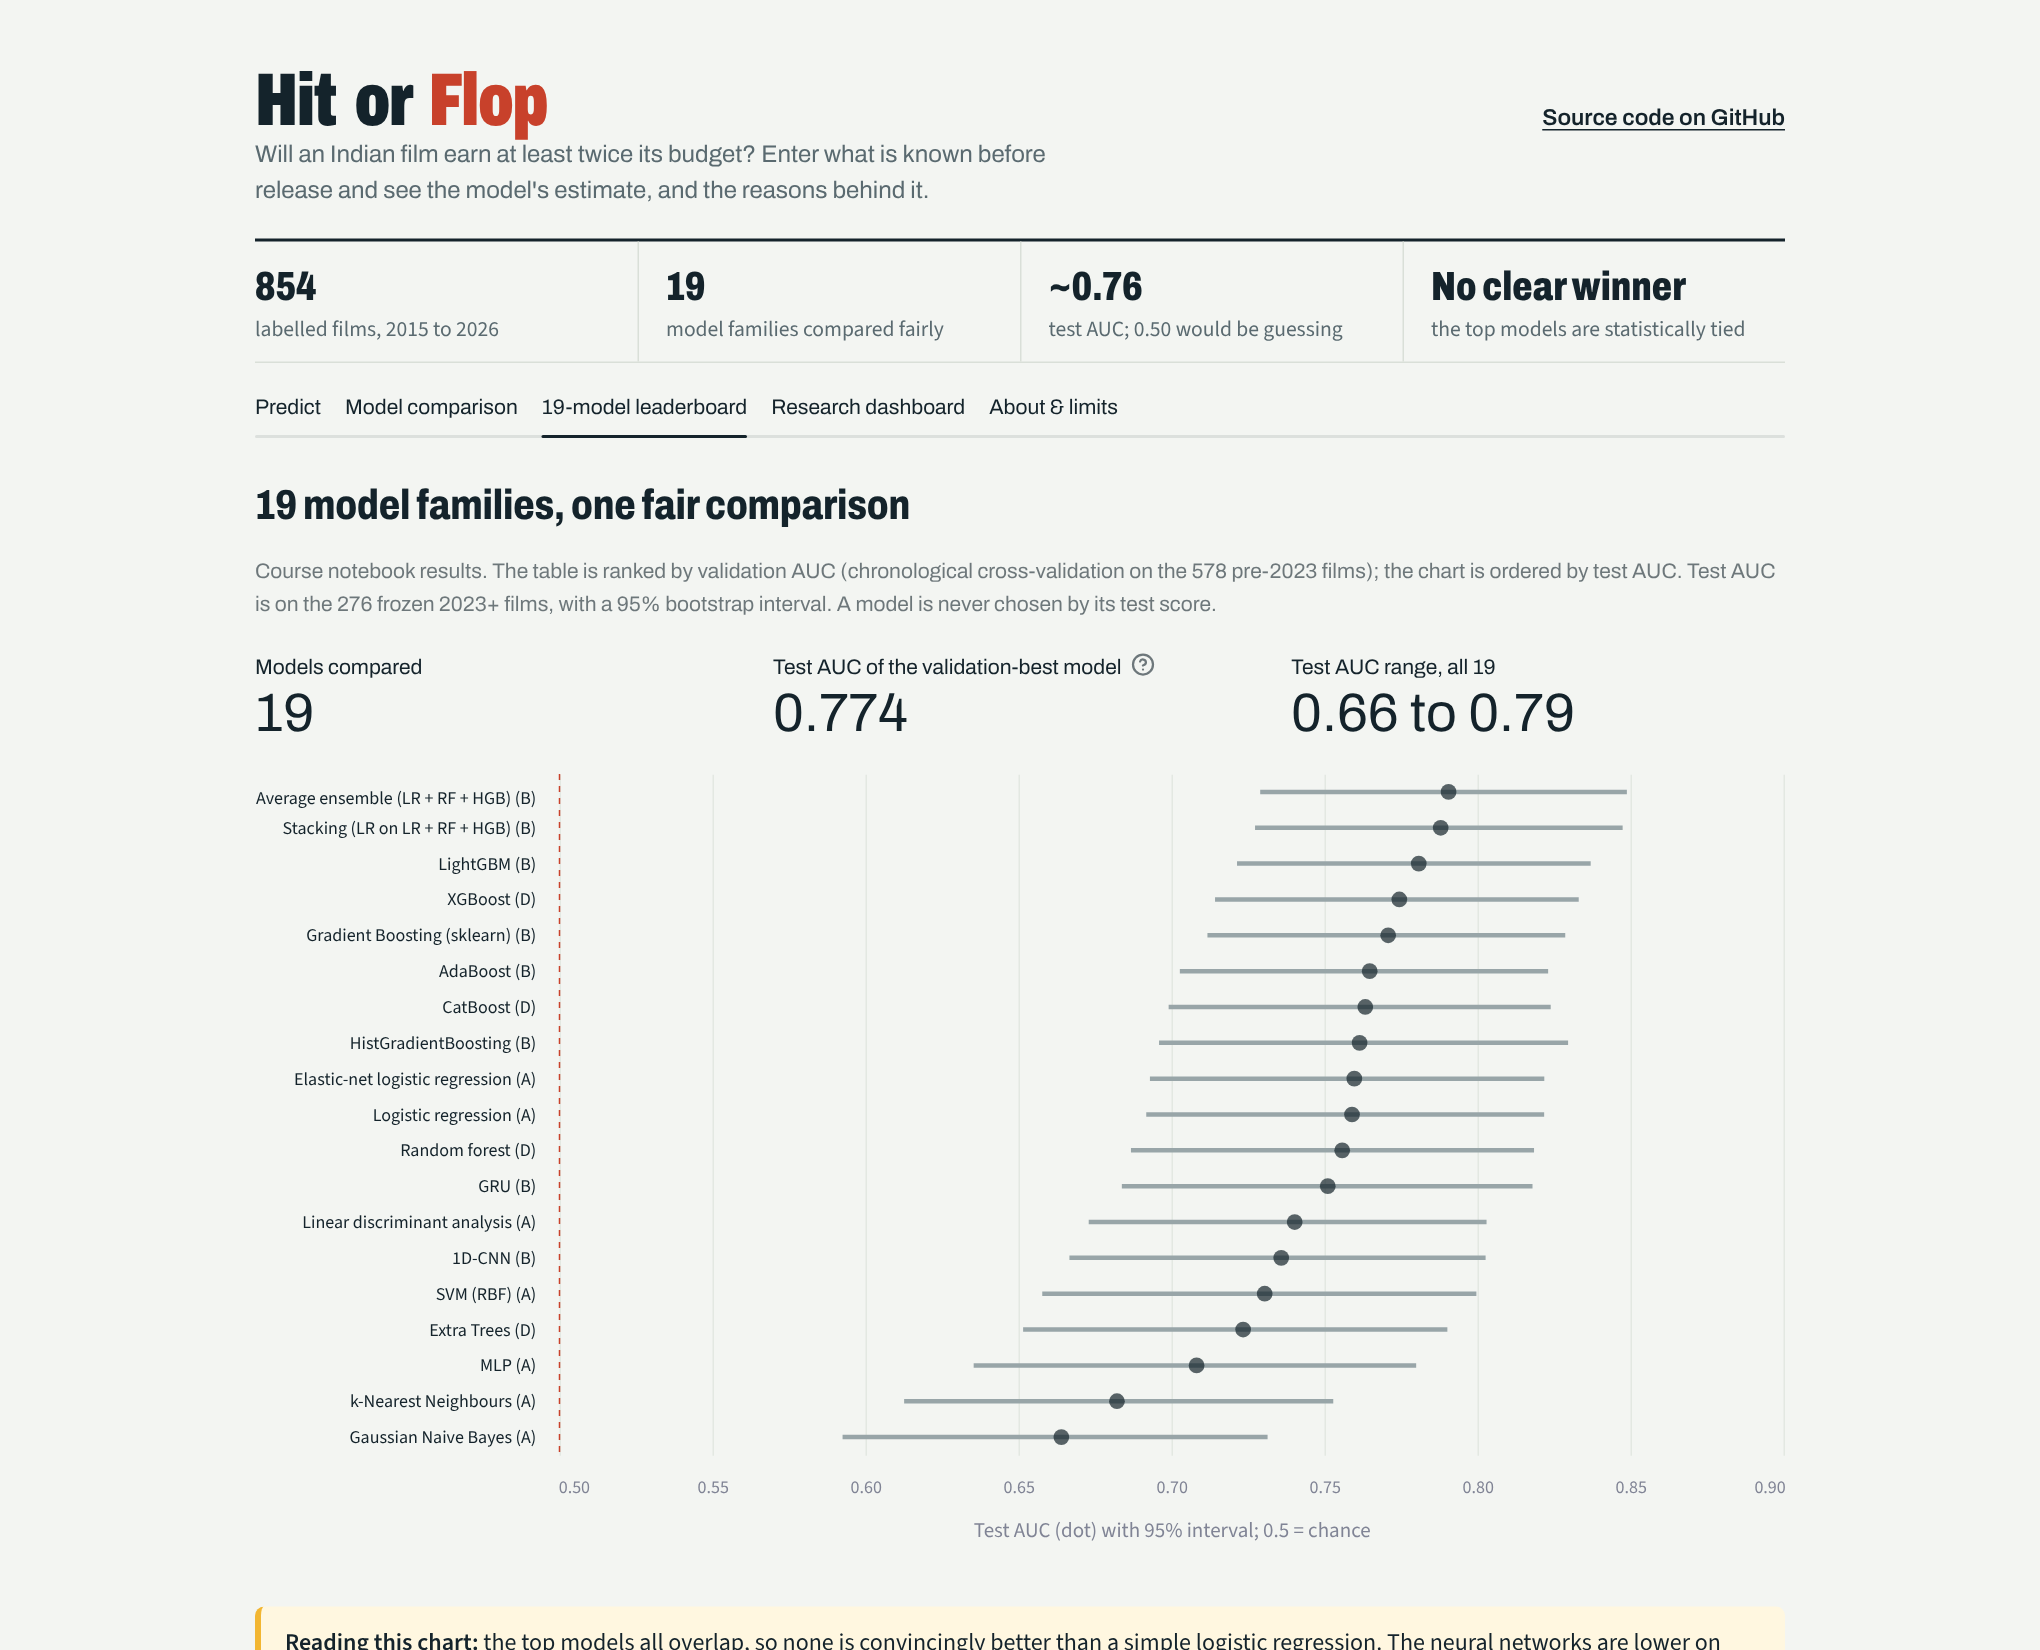
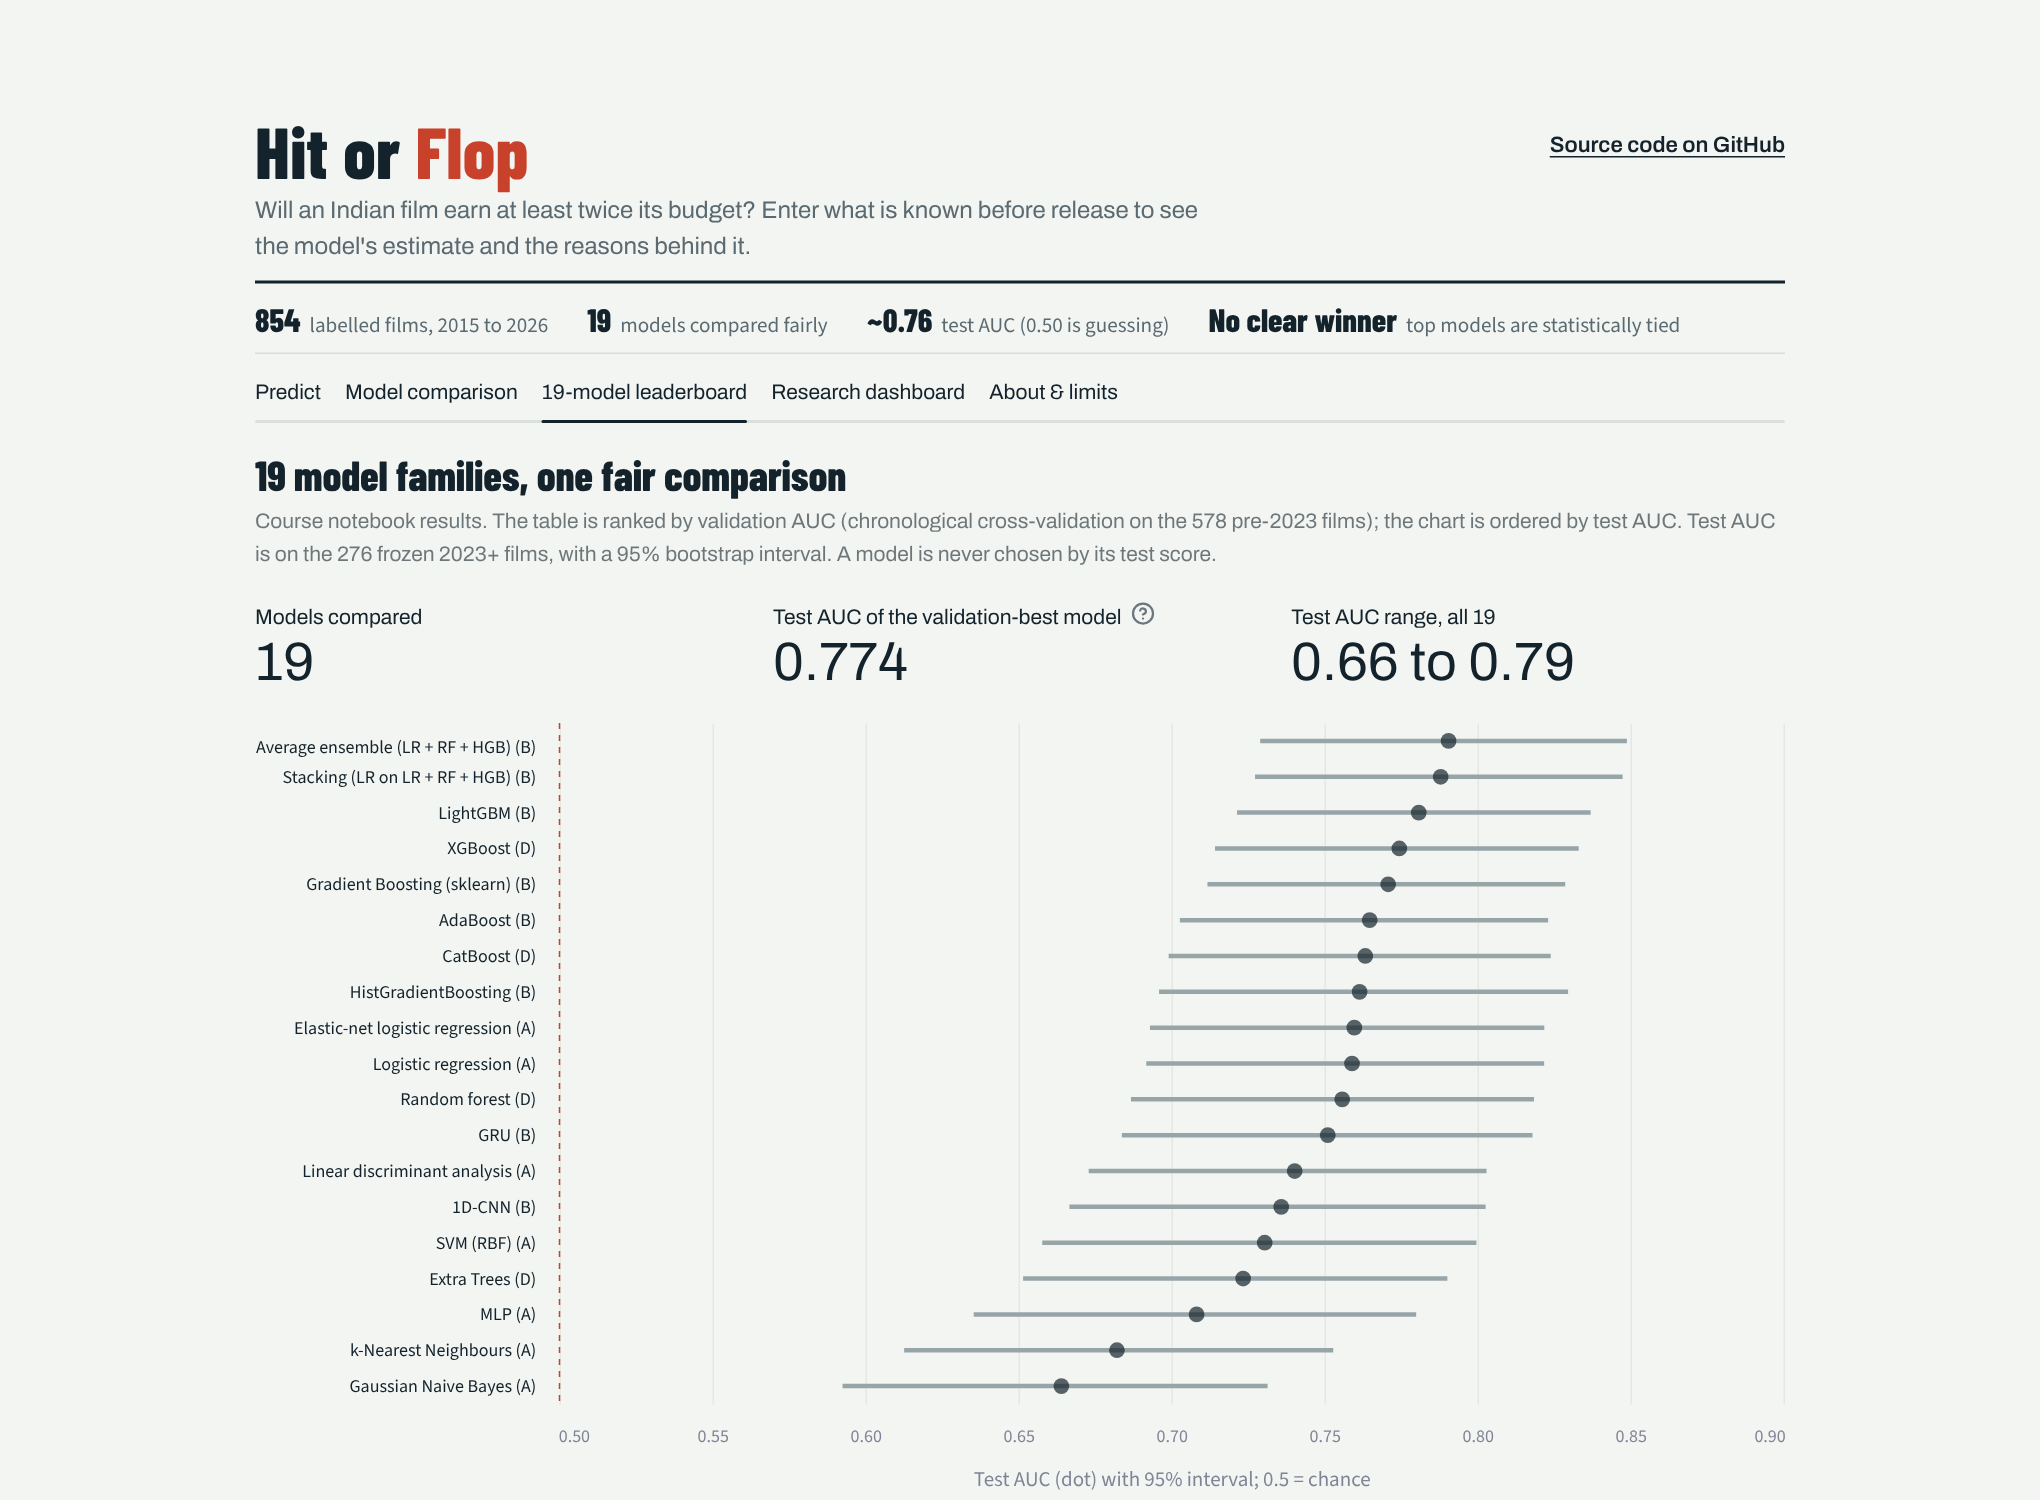
Compact layout and static condensed headline font

diff --git a/app/streamlit_app.py b/app/streamlit_app.py
@@ -126,8 +126,7 @@ def ticket_html(title, meta, p, thr, label, model_label):
         f"<div class='thr' style='left:{thr * 100:.1f}%'><span>Hit line {thr * 100:.0f}%</span></div></div>"
         f"</div>"
         f"<div class='tk-perf'></div>"
-        f"<div class='tk-foot'>The model calls a Hit when the chance is at or above the Hit line. "
-        f"The line was set on past films, not chosen to flatter this one.</div>"
+        f"<div class='tk-foot'>A Hit is called when the chance reaches the Hit line. The line was set on past films, not to flatter this one.</div>"
         f"</div>")
 
 
@@ -135,80 +134,78 @@ def ticket_html(title, meta, p, thr, label, model_label):
 REPO_URL = "https://github.com/tonymadhuri2088-cmd/movie-hit-flop"
 st.markdown("""
 <style>
-@font-face {font-family: "Archivo VF"; src: url("/app/static/archivo-wdth.woff2") format("woff2");
-            font-weight: 100 900; font-stretch: 62% 125%; font-display: swap;}
+@font-face {font-family: "Archivo VF"; src: url("/app/static/archivo-wdth.woff2") format("woff2"); font-weight: 100 900; font-display: swap;}
+@font-face {font-family: "Barlow Cond"; src: url("/app/static/barlow-condensed-800.woff2") format("woff2"); font-weight: 800; font-display: swap;}
+@font-face {font-family: "Barlow Cond"; src: url("/app/static/barlow-condensed-700.woff2") format("woff2"); font-weight: 700; font-display: swap;}
 :root {--paper:#f3f5f2; --panel:#ffffff; --line:#d9dfd8; --ink:#14232b; --muted:#5a6a70; --gold:#f2b632;
-       --hit:#0f7b62; --flop:#c8412b; --hit-lit:#4fd1a5; --flop-lit:#ff7a59;}
+       --hit:#0f7b62; --flop:#c8412b; --hit-lit:#4fd1a5; --flop-lit:#ff7a59;
+       --head:"Barlow Cond","Arial Narrow","Roboto Condensed",sans-serif;}
 .stApp, .stApp p, .stApp label, .stApp li, .stApp td, .stApp th, .stApp button, .stApp input, .stApp textarea,
-.stApp h1, .stApp h2, .stApp h3, .stApp h4, .stApp a, .stApp caption {font-family: "Archivo VF", "Segoe UI", system-ui, sans-serif;}
+.stApp a {font-family: "Archivo VF", "Segoe UI", system-ui, sans-serif;}
+.stApp h1, .stApp h2, .stApp h3, .stApp h4 {font-family: var(--head);}
 .stApp [data-testid="stIconMaterial"], .stApp .material-symbols-rounded {font-family: "Material Symbols Rounded" !important;}
-.block-container {padding-top: 1.6rem; max-width: 1180px;}
-h2, h3 {font-variation-settings: "wdth" 80; font-weight: 800 !important; letter-spacing: -.01em;}
+.block-container {padding-top: 3.4rem !important; padding-bottom: 2rem !important; max-width: 1180px;}
+h2, h3 {font-weight: 800 !important; font-size: 1.75rem !important; line-height: 1.15 !important; letter-spacing: .005em; padding: .1rem 0 .3rem 0 !important; font-synthesis: none;}
 
-.top {display:flex; align-items:baseline; justify-content:space-between; gap:16px; flex-wrap:wrap;}
-.logo {font-family:"Archivo VF",sans-serif; font-variation-settings:"wdth" 70; font-weight:900; font-size:3.1rem; line-height:1;
-       color:var(--ink); letter-spacing:-.02em; word-spacing:.14em;}
+.top {display:flex; align-items:flex-start; justify-content:space-between; gap:16px; flex-wrap:wrap;}
+.logo {font-family:var(--head); font-weight:800; font-size:3rem; line-height:1.15; padding-top:.06em; color:var(--ink); letter-spacing:.005em; font-synthesis:none;}
 .logo i {font-style:normal; color:var(--flop);}
-.top a {color:var(--ink); font-weight:600; text-decoration:underline; text-underline-offset:3px; font-size:.95rem;}
-.lede {font-size:1.12rem; color:var(--muted); max-width: 62ch; margin: 14px 0 20px 0; line-height:1.5;}
-.facts {display:flex; flex-wrap:wrap; border-top:2px solid var(--ink); border-bottom:1px solid var(--line); margin-bottom:10px;}
-.facts div {flex:1 1 180px; padding:12px 18px 12px 0; font-size:.9rem; color:var(--muted); line-height:1.35;}
-.facts div + div {padding-left:18px; border-left:1px solid var(--line);}
-.facts b {display:block; font-family:"Archivo VF",sans-serif; font-variation-settings:"wdth" 75; font-weight:850; font-size:1.7rem; color:var(--ink);}
+.top a {color:var(--ink); font-weight:600; text-decoration:underline; text-underline-offset:3px; font-size:.92rem; margin-top:.9rem;}
+.lede {font-size:1.02rem; color:var(--muted); max-width: 70ch; margin: 2px 0 12px 0; line-height:1.45;}
+.facts {display:flex; flex-wrap:wrap; gap:6px 26px; border-top:2px solid var(--ink); border-bottom:1px solid var(--line); padding:9px 0; margin-bottom:6px; align-items:baseline;}
+.facts div {font-size:.88rem; color:var(--muted); line-height:1.3;}
+.facts b {font-family:var(--head); font-weight:800; font-size:1.35rem; color:var(--ink); margin-right:6px; font-synthesis:none;}
 
 [data-testid="stVerticalBlockBorderWrapper"] {background: var(--panel); border-color: var(--line) !important; border-radius: 14px;}
-div[data-testid="stButton"] {width:100% !important;}
-div[data-testid="stButton"] button {width:100% !important; font-weight:700; padding:.65rem 1rem; border-radius:10px;}
-button[data-baseweb="tab"] p {font-weight:650; font-size:1rem;}
+[data-testid="stVerticalBlockBorderWrapper"] [data-testid="stVerticalBlock"] {gap: .7rem;}
+div[data-testid="stButton"] button {font-weight:700; padding:.6rem 1rem; border-radius:10px;}
+button[data-baseweb="tab"] p {font-weight:650; font-size:.98rem;}
 
-.ticket {position:relative; background:var(--ink); color:#f3f5f2; border-radius:16px; margin: 4px 0 12px 0; box-shadow: 0 10px 30px rgba(20,35,43,.22);}
-.tk-top {display:flex; justify-content:space-between; gap:12px; background:var(--gold); color:var(--ink); font-weight:700; font-size:.85rem;
-         padding:9px 22px; border-radius:16px 16px 0 0;}
-.tk-main {position:relative; padding:20px 24px 24px 24px;}
-.tk-title {font-family:"Archivo VF",sans-serif; font-variation-settings:"wdth" 75; font-weight:850; font-size:1.9rem; line-height:1.1; padding-right:150px;
-           overflow-wrap:anywhere;}
-.tk-meta {color:#b9c6c9; font-size:.95rem; margin-top:6px; padding-right:150px; line-height:1.4;}
-.tk-num {margin-top:18px; line-height:.9; display:flex; align-items:baseline;}
-.tk-num .n {font-family:"Archivo VF",sans-serif; font-variation-settings:"wdth" 68; font-weight:900; font-size:6.6rem; font-variant-numeric: tabular-nums;}
-.tk-num .pc {font-family:"Archivo VF",sans-serif; font-variation-settings:"wdth" 68; font-weight:800; font-size:2.6rem; margin-left:4px; color:#b9c6c9;}
-.tk-lab {color:#d6dfe1; font-size:1rem; margin-top:4px;}
-.track {position:relative; height:12px; background:rgba(255,255,255,.16); border-radius:8px; margin:34px 4px 6px 0;}
+.ticket {position:relative; background:var(--ink); color:#f3f5f2; border-radius:16px; margin: 2px 0 10px 0; box-shadow: 0 10px 28px rgba(20,35,43,.2);}
+.tk-top {display:flex; justify-content:space-between; gap:12px; background:var(--gold); color:var(--ink); font-weight:700; font-size:.82rem; padding:8px 22px; border-radius:16px 16px 0 0;}
+.tk-main {position:relative; padding:16px 22px 14px 22px;}
+.tk-title {font-family:var(--head); font-weight:800; font-size:1.9rem; line-height:1.1; padding-right:130px; overflow-wrap:anywhere; font-synthesis:none;}
+.tk-meta {color:#b9c6c9; font-size:.9rem; margin-top:4px; padding-right:130px; line-height:1.35;}
+.tk-num {margin-top:10px; line-height:.95; display:flex; align-items:baseline;}
+.tk-num .n {font-family:var(--head); font-weight:800; font-size:5.4rem; line-height:.95; font-variant-numeric: tabular-nums; font-synthesis:none;}
+.tk-num .pc {font-family:var(--head); font-weight:700; font-size:2.2rem; margin-left:4px; color:#b9c6c9;}
+.tk-lab {color:#d6dfe1; font-size:.95rem; margin-top:2px;}
+.track {position:relative; height:11px; background:rgba(255,255,255,.16); border-radius:8px; margin:30px 4px 4px 0;}
 .fill {height:100%; border-radius:8px; background:#f3f5f2;}
-.thr {position:absolute; top:-9px; bottom:-9px; width:3px; background:var(--gold); border-radius:2px; transform:translateX(-1px);}
-.thr span {position:absolute; bottom:calc(100% + 4px); left:50%; transform:translateX(-50%); white-space:nowrap; font-size:.78rem; font-weight:700; color:var(--gold);}
-.stamp {position:absolute; top:18px; right:22px; transform:rotate(-7deg); border:4px solid; border-radius:8px; padding:2px 14px;
-        font-family:"Archivo VF",sans-serif; font-variation-settings:"wdth" 70; font-weight:900; font-size:2.4rem; letter-spacing:.03em; opacity:.97;}
+.thr {position:absolute; top:-8px; bottom:-8px; width:3px; background:var(--gold); border-radius:2px; transform:translateX(-1px);}
+.thr span {position:absolute; bottom:calc(100% + 3px); left:50%; transform:translateX(-50%); white-space:nowrap; font-size:.75rem; font-weight:700; color:var(--gold);}
+.stamp {position:absolute; top:14px; right:20px; transform:rotate(-7deg); border:3px solid; border-radius:8px; padding:0 12px; font-family:var(--head); font-weight:800; font-size:2.1rem; line-height:1.25; letter-spacing:.04em; font-synthesis:none;}
 .ticket.hit .stamp {color:var(--hit-lit); border-color:var(--hit-lit);}
 .ticket.flop .stamp {color:var(--flop-lit); border-color:var(--flop-lit);}
 .tk-perf {position:relative; border-top:2px dashed rgba(255,255,255,.28); margin:0 18px;}
-.tk-perf::before, .tk-perf::after {content:""; position:absolute; top:-13px; width:24px; height:24px; border-radius:50%; background:var(--paper);}
-.tk-perf::before {left:-30px;} .tk-perf::after {right:-30px;}
-.tk-foot {padding:14px 24px 18px 24px; color:#aebcbf; font-size:.85rem; line-height:1.45;}
+.tk-perf::before, .tk-perf::after {content:""; position:absolute; top:-12px; width:22px; height:22px; border-radius:50%; background:var(--paper);}
+.tk-perf::before {left:-29px;} .tk-perf::after {right:-29px;}
+.tk-foot {padding:10px 22px 14px 22px; color:#aebcbf; font-size:.8rem; line-height:1.4;}
 
-.ghost {border:2px dashed #aeb9b4; border-radius:16px; padding:26px 26px 22px 26px; color:var(--muted); background:rgba(255,255,255,.5);}
-.ghost .g-title {font-family:"Archivo VF",sans-serif; font-variation-settings:"wdth" 75; font-weight:850; font-size:1.7rem; color:var(--ink); margin-bottom:6px;}
-.ghost p {margin:0 0 8px 0; line-height:1.5; font-size:1rem;}
-.ghost ul {margin:6px 0 10px 18px; padding:0; line-height:1.6;}
-.ghost .small {font-size:.88rem;}
+.ghost {border:2px dashed #aeb9b4; border-radius:16px; padding:22px 24px 18px 24px; color:var(--muted); background:rgba(255,255,255,.5);}
+.ghost .g-title {font-family:var(--head); font-weight:800; font-size:1.8rem; line-height:1.15; color:var(--ink); margin-bottom:6px; font-synthesis:none;}
+.ghost p {margin:0 0 8px 0; line-height:1.5; font-size:.98rem;}
+.ghost ul {margin:4px 0 10px 18px; padding:0; line-height:1.55;}
+.ghost .small {font-size:.85rem;}
 
 .note {background:#fff7e0; border-left:4px solid var(--gold); border-radius:6px; padding:12px 16px; margin:8px 0 14px 0; line-height:1.5; color:var(--ink);}
 .footer a {color:var(--ink); font-weight:600;}
-.footer {margin-top:36px; padding-top:14px; border-top:1px solid var(--line); color:#5a6a70; font-size:.85rem;}
+.footer {margin-top:30px; padding-top:12px; border-top:1px solid var(--line); color:#5a6a70; font-size:.85rem;}
 @media (max-width: 800px) {
-  .logo {font-size:2.4rem;} .tk-num .n {font-size:5rem;} .tk-title {padding-right:0; padding-top:46px;} .tk-meta {padding-right:0;}
-  .stamp {font-size:1.8rem; top:12px;} .facts div + div {border-left:0; padding-left:0;}
+  .logo {font-size:2.5rem;} .tk-num .n {font-size:4.6rem;} .tk-title {padding-right:0; padding-top:46px;} .tk-meta {padding-right:0;}
+  .stamp {font-size:1.7rem; top:10px;} .facts {gap:4px 18px;}
 }
 @media (prefers-reduced-motion: reduce) {* {transition: none !important; animation: none !important;}}
 </style>
 """, unsafe_allow_html=True)
 st.markdown(f"""
 <div class="top"><div class="logo">Hit or <i>Flop</i></div><a href="{REPO_URL}" target="_blank">Source code on GitHub</a></div>
-<p class="lede">Will an Indian film earn at least twice its budget? Enter what is known before release and see the model's estimate, and the reasons behind it.</p>
+<p class="lede">Will an Indian film earn at least twice its budget? Enter what is known before release to see the model's estimate and the reasons behind it.</p>
 <div class="facts">
   <div><b>854</b>labelled films, 2015 to 2026</div>
-  <div><b>19</b>model families compared fairly</div>
-  <div><b>~0.76</b>test AUC; 0.50 would be guessing</div>
-  <div><b>No clear winner</b>the top models are statistically tied</div>
+  <div><b>19</b>models compared fairly</div>
+  <div><b>~0.76</b>test AUC (0.50 is guessing)</div>
+  <div><b>No clear winner</b>top models are statistically tied</div>
 </div>
 """, unsafe_allow_html=True)
 tab_pred, tab_cmp, tab_lb, tab_dash, tab_about = st.tabs(["Predict", "Model comparison", "19-model leaderboard", "Research dashboard", "About & limits"])
@@ -220,7 +217,7 @@ with tab_pred:
     with c1:
         with st.container(border=True):
             st.subheader("Film details")
-            st.selectbox("Quick example (fills the form; invented films, not real titles)", ["Choose an example..."] + list(EXAMPLES), key="example", on_change=apply_example)
+            st.selectbox("Quick example (invented films, not real titles)", ["Choose an example..."] + list(EXAMPLES), key="example", on_change=apply_example)
             name = st.text_input("Film title (optional)", "", key="title", placeholder="For example: My new film")
             lang = st.selectbox("Language", list(LANG_NAMES), format_func=lambda k: LANG_NAMES[k], key="lang")
             rdate = st.date_input("Release date", value=pd.Timestamp("2027-01-15").date(), key="rdate")

diff --git a/README.md b/README.md
@@ -150,4 +150,4 @@ data/           labelled movies, Wikipedia infobox records, YouTube features
 The data files were compiled from public sources (movie metadata, Wikipedia page views and infoboxes, YouTube trailer statistics). Check each source's terms before reusing or redistributing the data.
 
 ## Licence
-MIT. See [LICENSE](LICENSE). The app bundles the Archivo variable font (SIL Open Font License; see `app/static/ARCHIVO-OFL-LICENSE.txt`).
+MIT. See [LICENSE](LICENSE). The app bundles the Archivo and Barlow Condensed fonts (SIL Open Font License; see `app/static/ARCHIVO-OFL-LICENSE.txt` and `app/static/BARLOW-OFL-LICENSE.txt`).
